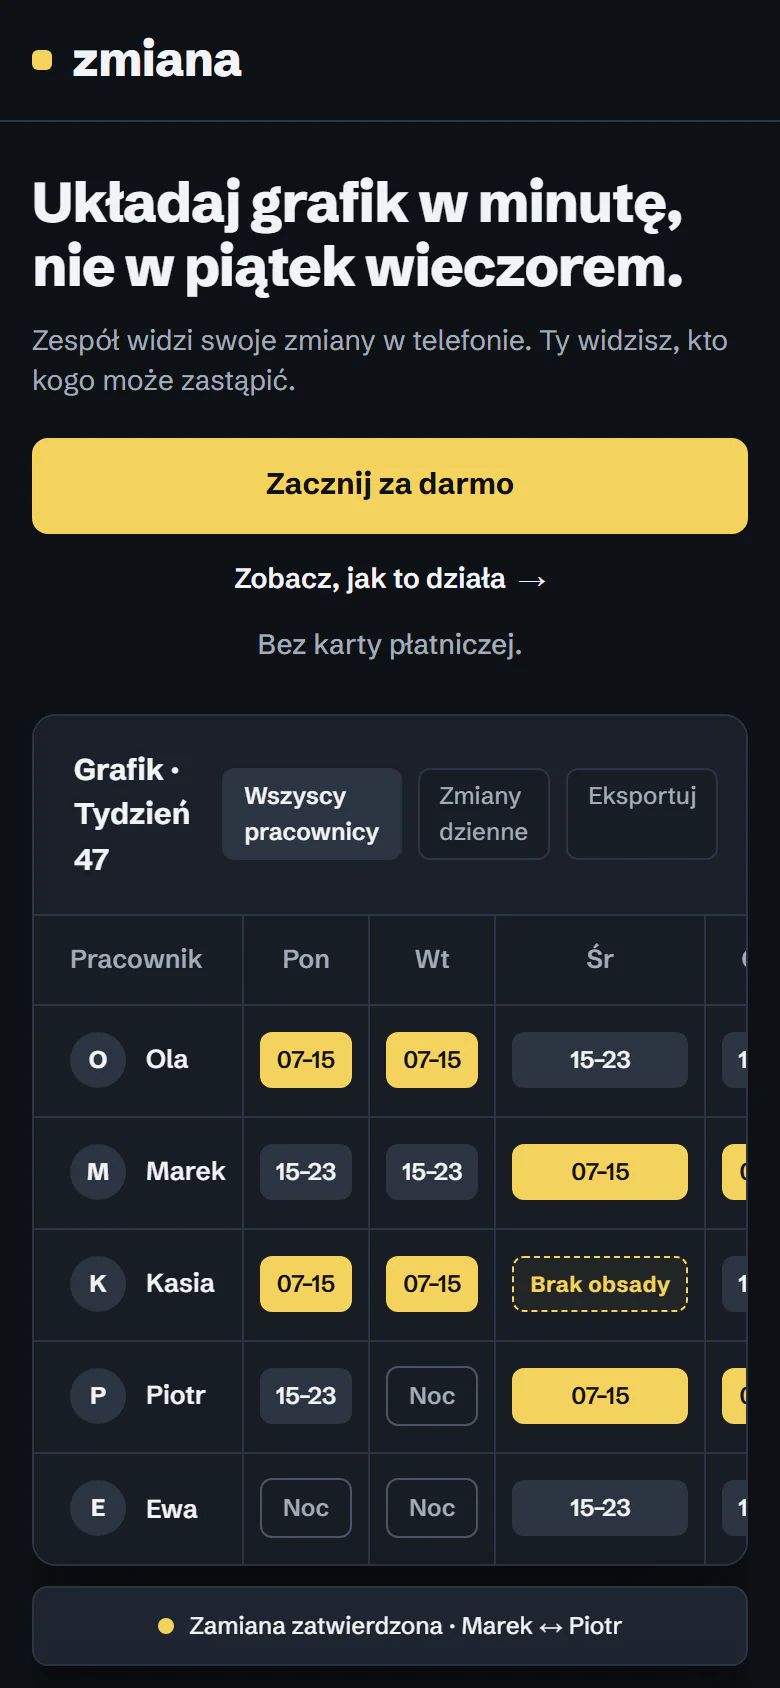
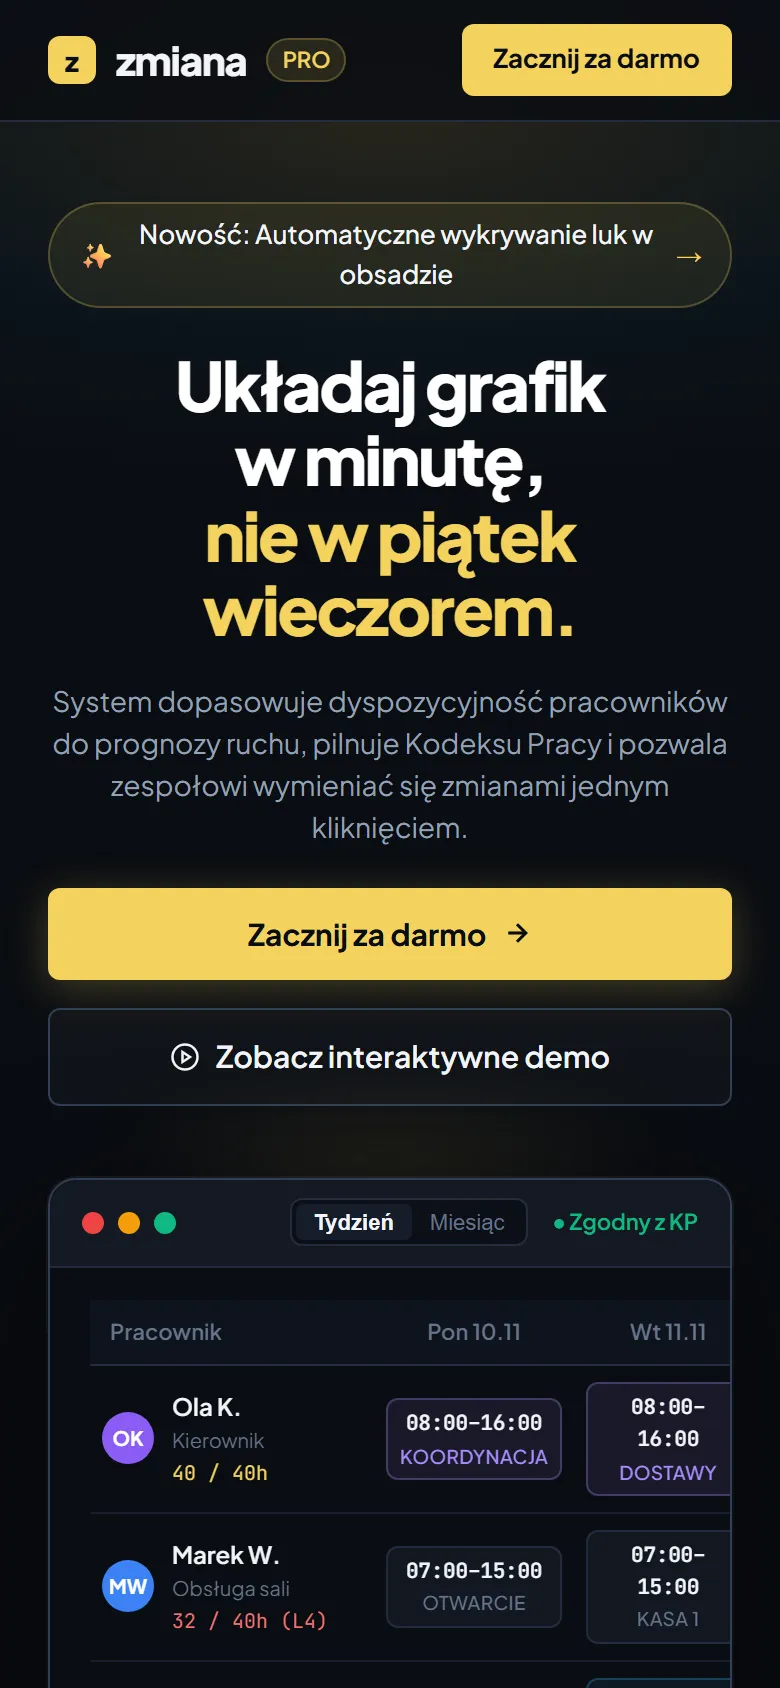
feat(concepts): redesign portfolio mockups with unique Swiss grid, SaaS panorama, and Bento auto workshop

diff --git a/components/effects/before-after-slider.tsx b/components/effects/before-after-slider.tsx
@@ -60,8 +60,8 @@ export function BeforeAfterSlider({
           loading="lazy"
         />
         {/* Etykieta Przed (WCAG AA kontrast: biały tekst na ciemnym tle) */}
-        <div className="absolute top-3 left-3 z-10 pointer-events-none">
-          <span className="inline-flex items-center px-2.5 py-1 text-[13px] font-semibold tracking-wide rounded bg-black/85 text-white border border-white/20 shadow-sm">
+        <div className="absolute bottom-4 left-4 z-10 pointer-events-none">
+          <span className="inline-flex items-center backdrop-blur-md bg-black/75 text-white px-3 py-1 rounded-full text-xs font-medium border border-white/15 shadow-sm">
             Przed
           </span>
         </div>
@@ -84,8 +84,8 @@ export function BeforeAfterSlider({
           loading="lazy"
         />
         {/* Etykieta Po (WCAG AA kontrast: biały tekst na ciemnym tle) */}
-        <div className="absolute top-3 right-3 z-10 pointer-events-none">
-          <span className="inline-flex items-center px-2.5 py-1 text-[13px] font-semibold tracking-wide rounded bg-black/85 text-white border border-white/20 shadow-sm">
+        <div className="absolute bottom-4 right-4 z-10 pointer-events-none">
+          <span className="inline-flex items-center backdrop-blur-md bg-black/75 text-white px-3 py-1 rounded-full text-xs font-medium border border-white/15 shadow-sm">
             Po
           </span>
         </div>
